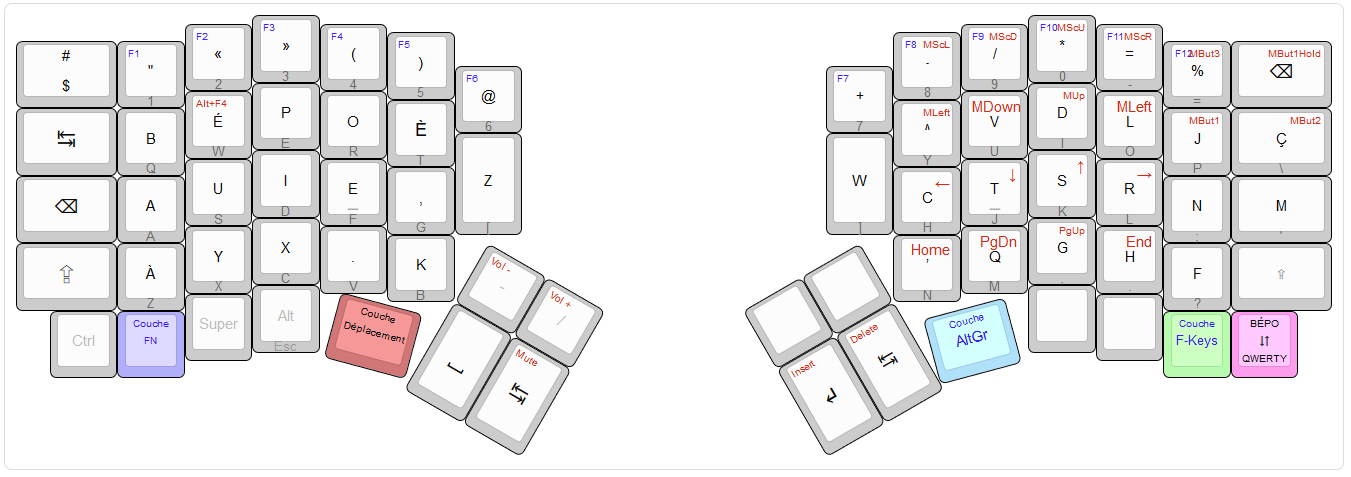
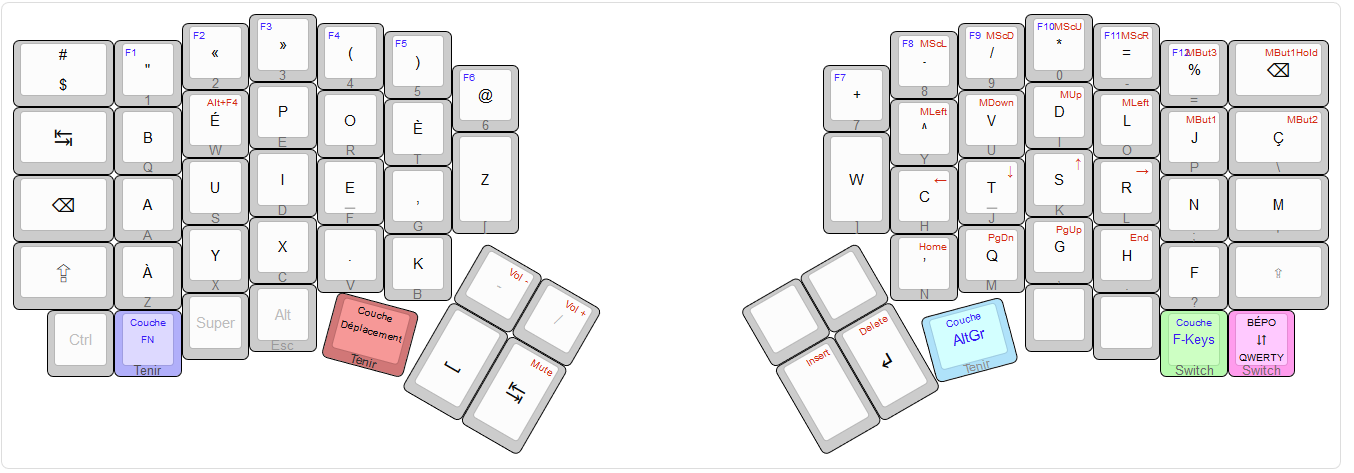
Erreurs image Keyboard layout

Changed region(s): [[0.0, 0.0, 0.9948, 1.0]]

diff --git a/readme.md b/readme.md
@@ -1,6 +1,13 @@
 # Redox avec Bépo via la dispositon Canadien Français
 
-![Résumé des différentes fonctions du Redox Bépo](keyboard-layout-main.png)
+![Résumé des différentes fonctions du Redox
+Bépo](keyboard-layout-main.png) 
+
+(Note: ceci ne montre que les touches
+les plus utilisés - les couches (marqués par des touches de couleur)
+sont un peu plus garnies en fonctionnalité)
+
+--
 
 Ce projet contient un layout pour le [Clavier
 Redox](https://github.com/mattdibi/redox-keyboard) ayant une
@@ -46,7 +53,7 @@ Pourquoi?
   pouvoir aider le prochain nouveau venu qui cherche une config
   similaire au mien. Suggestions des vétérans QMK bienvenus!
 
-## Omissions, déviation du standard Bépo et autres bugs
+## Omissions, déviation du standard Bépo et autres notes
 Tel que mentionné plus haut, j'ai fait de mon mieux pour faire marcher
 l'alphabet de base sous Bépo mais pas toutes les couches, car une
 bonne partie ne fonctionnerait pas de manière /cross-platform/ entre
@@ -73,6 +80,25 @@ plusieurs OS. De plus, notez ces détails:
 * J'ai personnalisé la série de touches `à`-`y`-`x`-`.`-`k` pour
   l'accès avec le modifieur `AltGr`, pour cette série non standard:
   `\`-`{`-`|`-`}`-`~`
+* Il y a une touche raccourci `Alt+F4` sur la touche `Déplacement+É`,
+  qui imite vaguement un `Ctrl+W` sur un clavier QWERTY.
+* La touche d'extrème-droite d'en haut, BackSpace, sert
+  essentiellement de compatibilité pour les pauvres gens empruntant
+  mon clavier sous QWERTY; je ne savais pas à quoi l'attribuer sous
+  Bépo. Je suis au courant de la redondance avec la touche à
+  l'emplacement CapsLock d'un clavier standard :)
+  * Également je reconnais la redondance pour Tab, au pouce gauche et
+    à son emplacement standard.
+* Noter que les touches de changements de couche ont la mention
+  "Switch" ou "Tenir", qui font référence au comportement /
+  utilisation de cette touche: "Tenir" est une touche qui s'active
+  seulement en tenant la touche enfoncée, "Switch" bascule de manière
+  permanente jusqu'à ce qu'on appuie dessus à nouveau.
+  * Mon *killer app* est d'utiliser la disposition du mouvement de
+	base de vim (touches `hjkl` QWERTY) tel quel sur ma main droite:
+	en tenant la touche "Déplacement" et utiliser `CTSR` comme étant
+	mes flèches du clavier. Voir les attribution de touches marqués en
+	rouge sur la main droite dans l'image résumé du début du readme.
 
 ## Installation
 Quoique pas un guide officiel, je vais présumer qu'il y a possibilité
